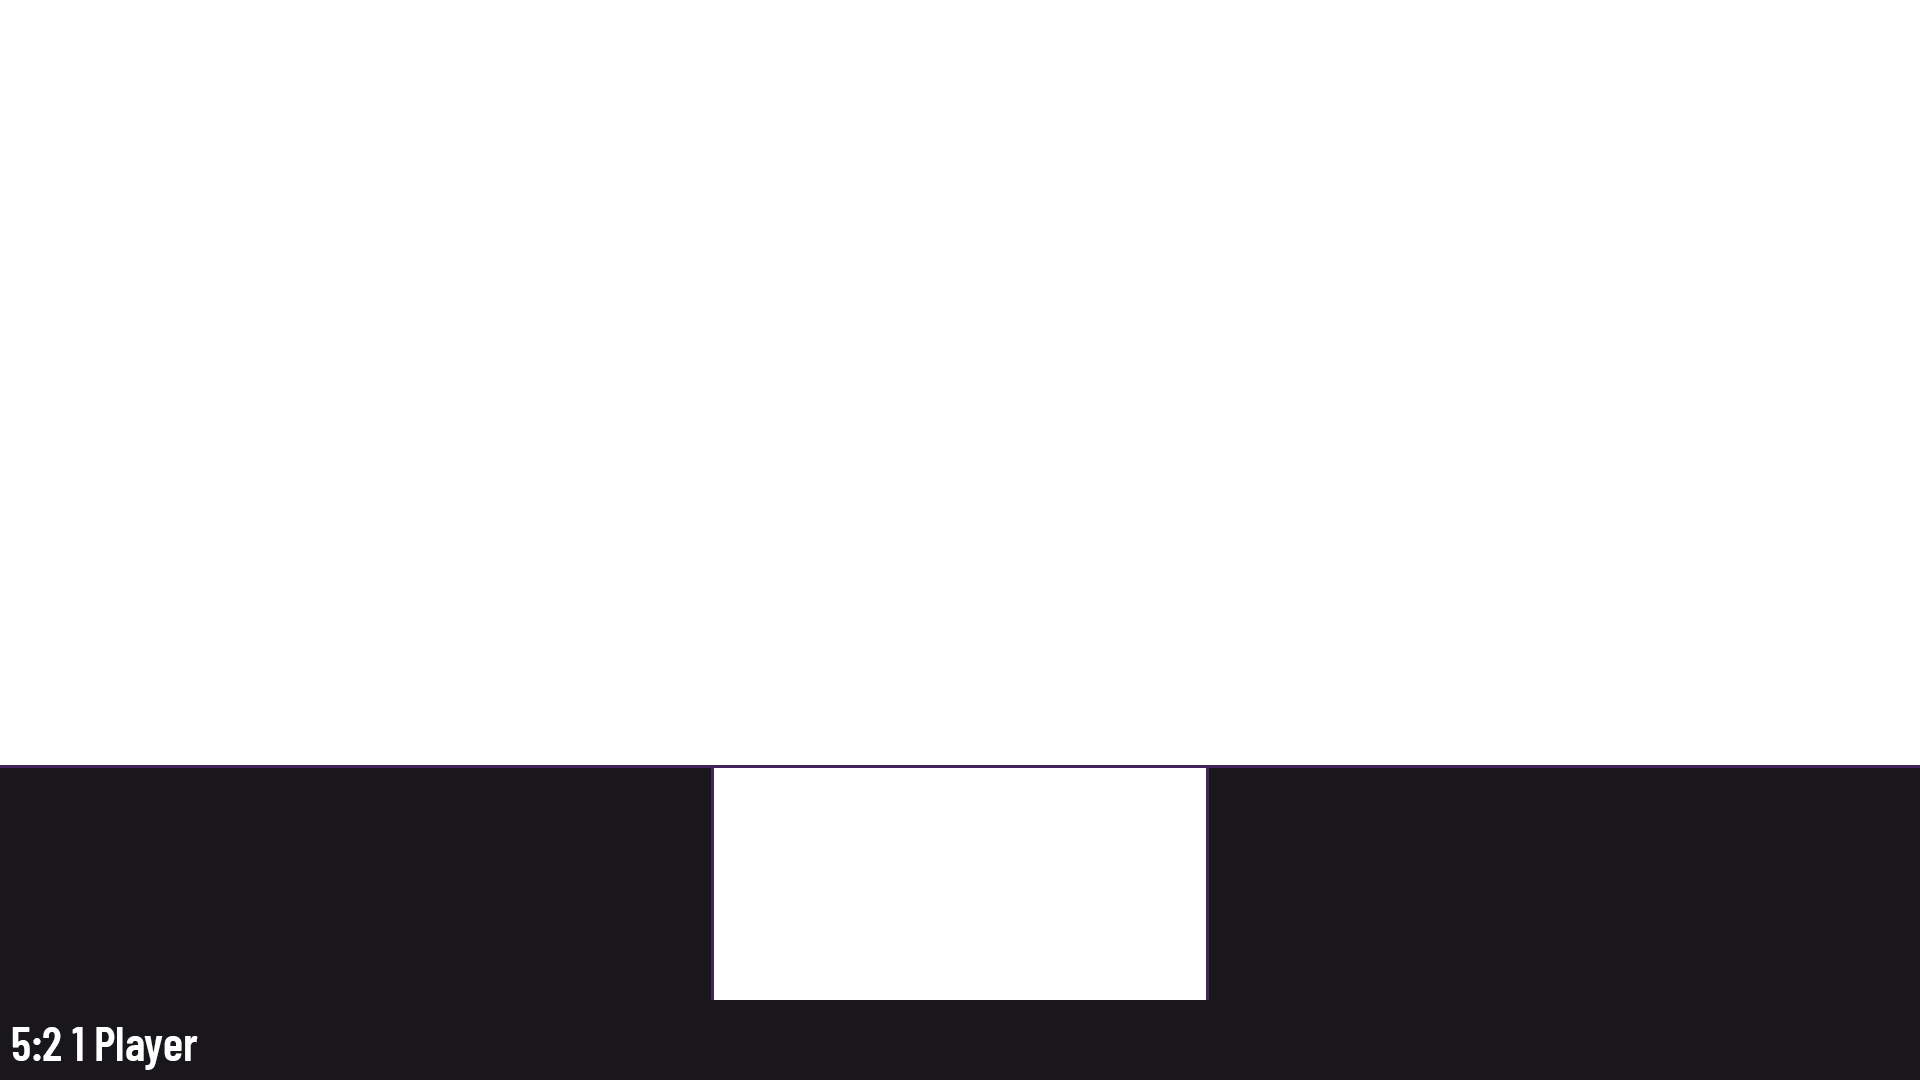
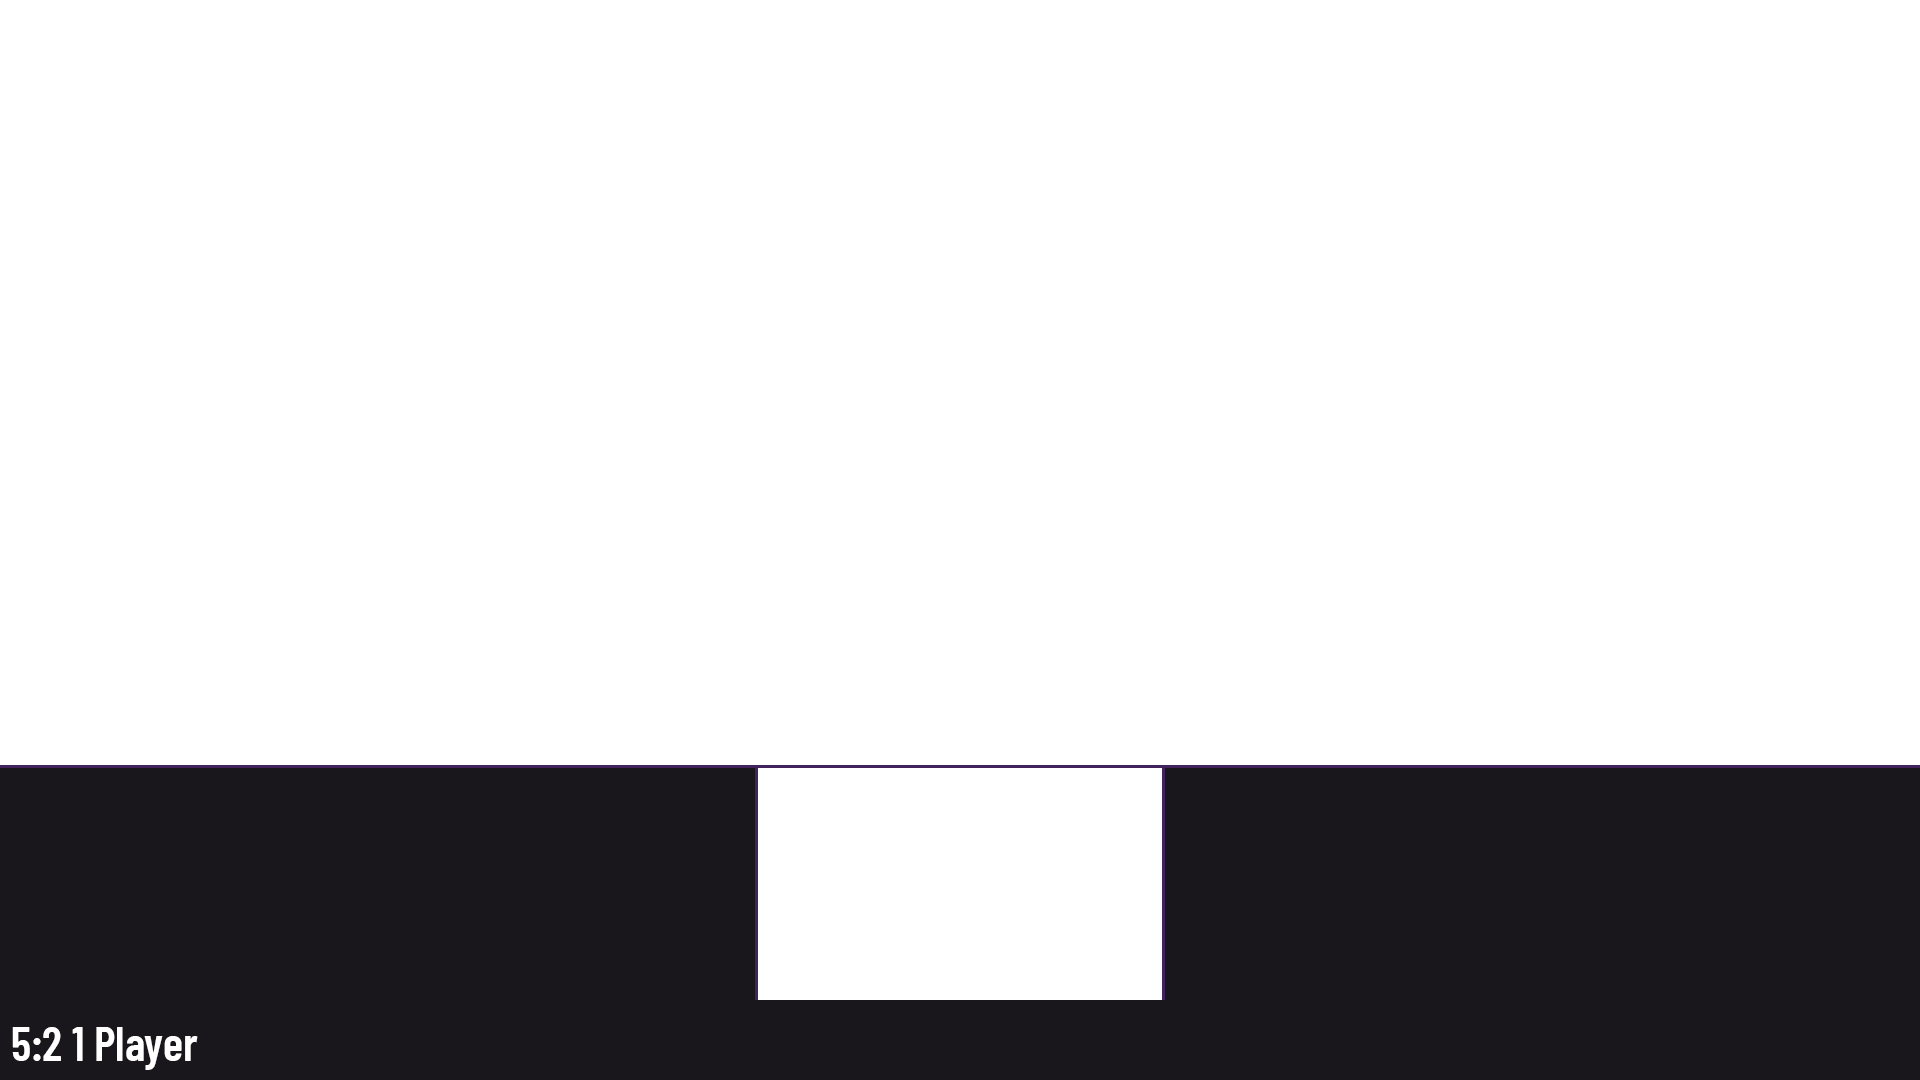
Game Layout: make camera on 5:2 1 Player thinner

Changed region(s): [[0.5938, 0.7028, 0.6562, 0.9472], [0.3438, 0.7028, 0.4062, 0.9472]]

diff --git a/src/graphics/game-layout/5x2-1p.vue b/src/graphics/game-layout/5x2-1p.vue
@@ -18,9 +18,9 @@
       id="CameraCapture1"
       class="Capture BorderRight BorderLeft"
       :style="{
-        left: '711px',
+        left: '755px',
         top: '768px',
-        width: '498px',
+        width: '410px',
         height: '232px',
       }"
     />
@@ -31,7 +31,7 @@
       :style="{
         left: '0px',
         top: '768px',
-        width: '711px',
+        width: '755px',
       }"
     >
       <player />
@@ -41,9 +41,9 @@
     <div
       class="Fixed FlexColumn"
       :style="{
-        left: '1209px',
+        left: '1165px',
         top: '768px',
-        width: '711px',
+        width: '755px',
         height: '187px',
       }"
     >
@@ -70,7 +70,7 @@
       :style="{
         left: '0px',
         top: '818px',
-        width: '711px',
+        width: '755px',
         height: '182px',
       }"
     />
@@ -79,9 +79,9 @@
     <donation-bar
       :padding="7"
       :style="{
-        left: '1209px',
+        left: '1165px',
         top: '955px',
-        width: '711px',
+        width: '755px',
         height: '45px',
       }"
     />
